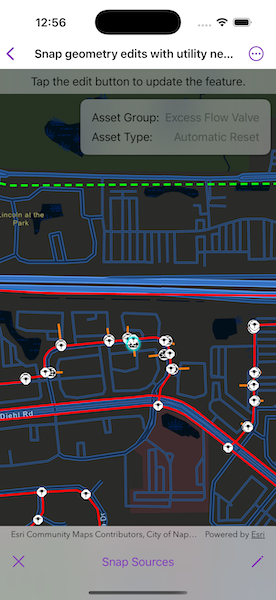
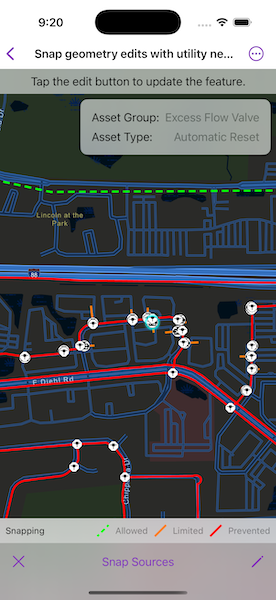
Move legend out of sheet.
https://github.com/Esri/arcgis-maps-sdk-swift-samples/pull/564#discussion_r2021789381

diff --git a/Shared/Samples/Snap geometry edits with utility network rules/SnapGeometryEditsWithUtilityNetworkRulesView.swift b/Shared/Samples/Snap geometry edits with utility network rules/SnapGeometryEditsWithUtilityNetworkRulesView.swift
@@ -16,8 +16,14 @@ import ArcGIS
 import SwiftUI
 
 struct SnapGeometryEditsWithUtilityNetworkRulesView: View {
+    /// The display scale of this environment.
+    @Environment(\.displayScale) private var displayScale
+    
     /// The view model for the sample.
     @StateObject private var model = Model()
+    
+    /// The images representing the different snap rule behavior cases.
+    @State private var ruleBehaviorImages: [SnapRuleBehavior?: Image] = [:]
     
     /// The various states of the sample.
     private enum SampleState: Equatable {
@@ -94,7 +100,7 @@ struct SnapGeometryEditsWithUtilityNetworkRulesView: View {
             VStack(alignment: .trailing, spacing: 0) {
                 Text(instructionText)
                     .multilineTextAlignment(.center)
-                    .frame(maxWidth: .infinity, alignment: .center)
+                    .frame(maxWidth: .infinity)
                     .padding(8)
                     .background(.thinMaterial, ignoresSafeAreaEdges: .horizontal)
                 
@@ -110,6 +116,13 @@ struct SnapGeometryEditsWithUtilityNetworkRulesView: View {
                     .shadow(radius: 3)
                     .padding(8)
                     .transition(.move(edge: .trailing))
+                    
+                    Spacer()
+                    
+                    SnapRuleBehaviorLegend(images: ruleBehaviorImages)
+                        .frame(maxWidth: .infinity)
+                        .padding(8)
+                        .background(.thinMaterial, ignoresSafeAreaEdges: .horizontal)
                 }
             }
             .animation(.default, value: model.selectedElement == nil)
@@ -129,9 +142,12 @@ struct SnapGeometryEditsWithUtilityNetworkRulesView: View {
                 }
                 .disabled(model.snapSourceSettings.isEmpty)
                 .popover(isPresented: $sourcesListIsPresented) {
-                    SnapSourcesList(settings: model.snapSourceSettings)
-                        .presentationDetents([.fraction(0.5)])
-                        .frame(idealWidth: 320, idealHeight: 390)
+                    SnapSourcesList(
+                        settings: model.snapSourceSettings,
+                        ruleBehaviorImages: ruleBehaviorImages
+                    )
+                    .presentationDetents([.fraction(0.5)])
+                    .frame(idealWidth: 320, idealHeight: 390)
                 }
                 
                 Spacer()
@@ -149,50 +165,56 @@ struct SnapGeometryEditsWithUtilityNetworkRulesView: View {
                 }
             }
         }
+        .task(id: displayScale) {
+            // Creates an image from each rule behavior's symbol.
+            for behavior in SnapRuleBehavior?.allCases {
+                let swatch = try? await behavior.symbol.makeSwatch(scale: displayScale)
+                ruleBehaviorImages[behavior] = swatch.map(Image.init(uiImage:))
+            }
+        }
     }
 }
 
 // MARK: - Helper Views
+
+/// The legend for the different snap rule behavior cases.
+private struct SnapRuleBehaviorLegend: View {
+    /// The images representing the different snap rule behavior cases.
+    let images: [SnapRuleBehavior?: Image]
+    
+    var body: some View {
+        LabeledContent("Snapping") {
+            HStack {
+                ForEach(SnapRuleBehavior?.allCases, id: \.self) { behavior in
+                    Label {
+                        Text(behavior.label)
+                    } icon: {
+                        images[behavior]
+                    }
+                }
+            }
+        }
+        .font(.footnote)
+    }
+}
 
 /// A list for enabling and disabling snap source settings.
 private struct SnapSourcesList: View {
     /// The snap source settings to show in the list.
     let settings: [SnapSourceSettings]
     
+    /// The images representing the different snap rule behavior cases.
+    let ruleBehaviorImages: [SnapRuleBehavior?: Image]
+    
     /// The action to dismiss the view.
     @Environment(\.dismiss) private var dismiss
-    
-    /// The display scale of this environment.
-    @Environment(\.displayScale) private var displayScale
-    
-    /// The images for the snap rule behavior legend.
-    @State private var ruleBehaviorImages: [SnapRuleBehavior?: Image] = [:]
     
     var body: some View {
         NavigationStack {
             Form {
-                Section {
-                    ForEach(Array(settings.enumerated()), id: \.offset) { _, settings in
-                        SnapSourceSettingsToggle(
-                            settings: settings,
-                            image: ruleBehaviorImages[settings.ruleBehavior]
-                        )
-                    }
-                }
-                
-                Section("Legend") {
-                    ForEach(SnapRuleBehavior?.allCases, id: \.self) { behavior in
-                        Label {
-                            Text(behavior.label)
-                        } icon: {
-                            ruleBehaviorImages[behavior]
-                        }
-                        .task(id: displayScale) {
-                            // Creates an image from the rule behavior's symbol.
-                            let swatch = try? await behavior.symbol.makeSwatch(scale: displayScale)
-                            ruleBehaviorImages[behavior] = Image(uiImage: swatch ?? UIImage())
-                        }
-                    }
+                ForEach(Array(settings.enumerated()), id: \.offset) { _, settings in
+                    let image = ruleBehaviorImages[settings.ruleBehavior]
+                    SnapSourceSettingsToggle(settings: settings, image: image)
                 }
             }
             .navigationTitle("Snap Sources")
@@ -255,12 +277,12 @@ extension Optional<SnapRuleBehavior> {
         return [.none, .rulesLimitSnapping, .rulesPreventSnapping]
     }
     
-    /// The human-readable label for the snap rule behavior.
+    /// The legend label for the snap rule behavior.
     fileprivate var label: String {
         switch self {
-        case .rulesLimitSnapping: "Rules Limit Snapping"
-        case .rulesPreventSnapping: "Rules Prevent Snapping"
-        default: "None"
+        case .rulesLimitSnapping: "Limited"
+        case .rulesPreventSnapping: "Prevented"
+        default: "Allowed"
         }
     }
     
